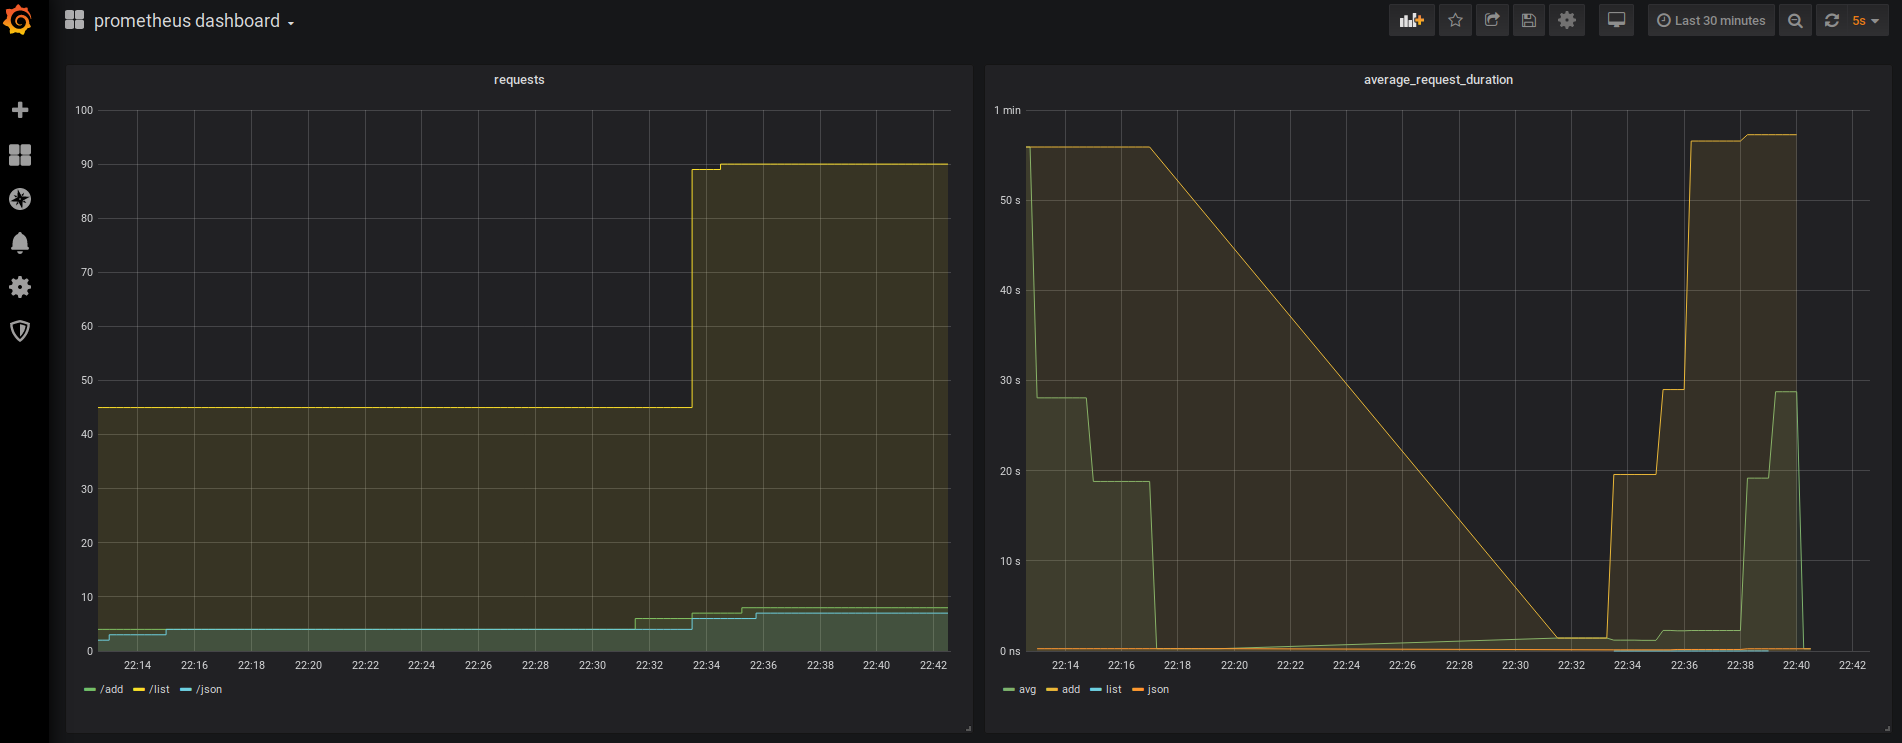
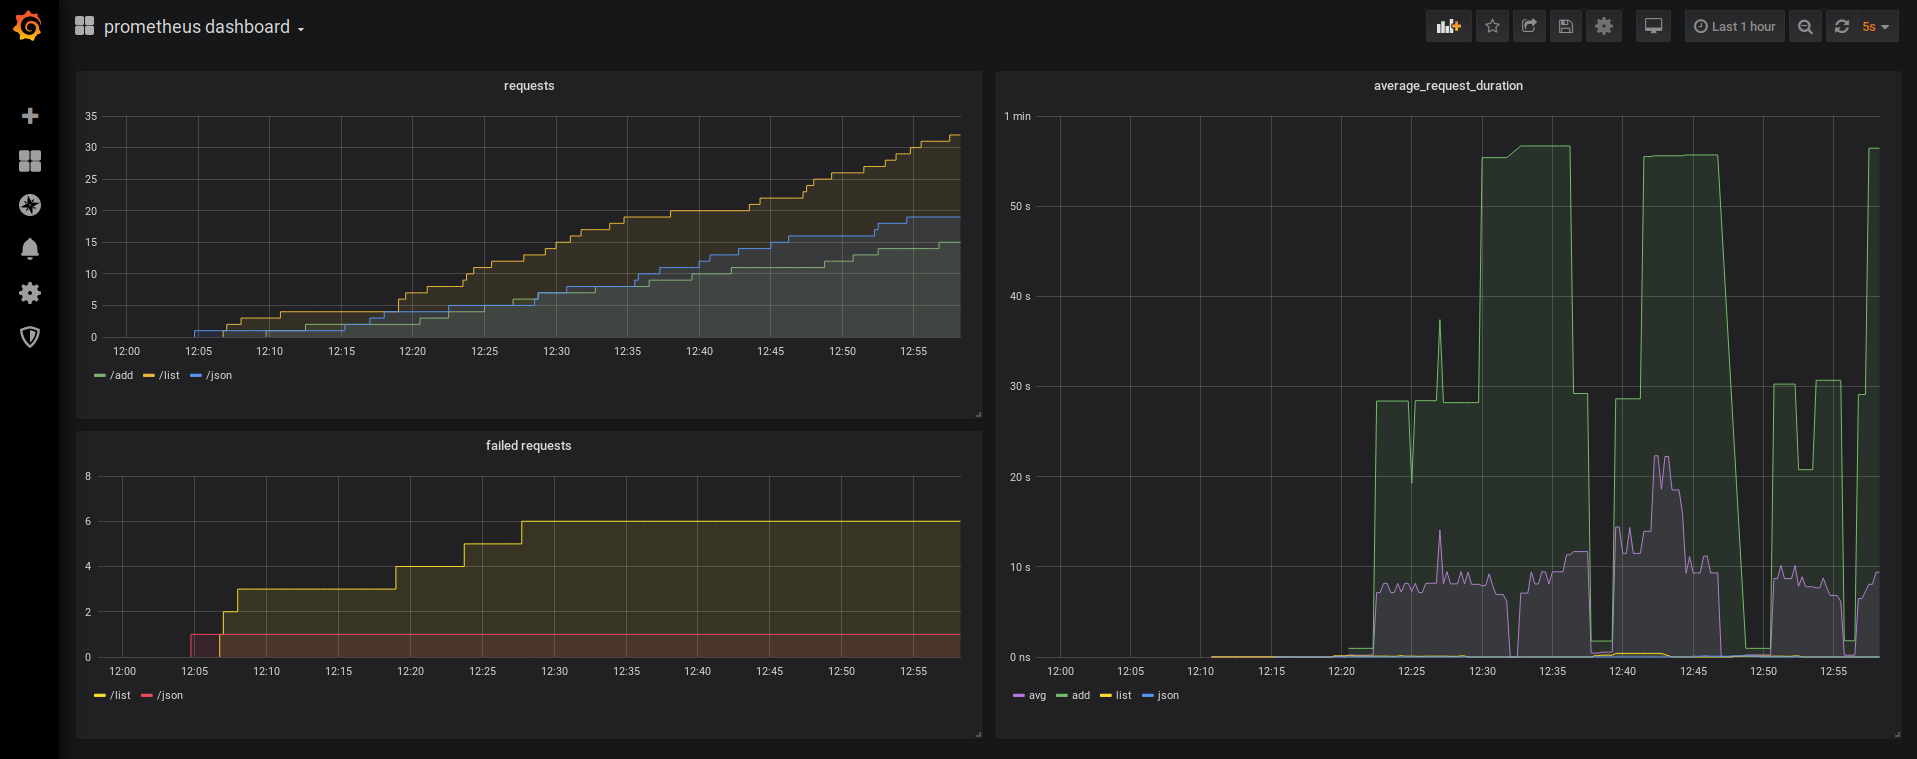
updated readme. updated dashboard with failed requests.

diff --git a/README.md b/README.md
@@ -321,11 +321,11 @@ Running ['curl', '-s', '-X', 'POST', 'http://127.0.0.1:5000/add/spark', '-d', 'h
 
 The following dashboard and panels are provisioned through `terraform` by passing `grafana-dashboard-template1.json` dashboard template mentioned above. 
 ![dashboards](static/grafana.png)
-The image does not do justice to visualising spikes in request latency.😇
 
 I have composed the queries used thanks to the [Prometheus official documentation on Histograms](https://prometheus.io/docs/practices/histograms/). 
 
-The image on the left shows the count for each request endpoint (add|list|json), whereas  on the right we see the average request duration (latency) for each endpoint (add|list|json).
+The panel on the top left shows the count for each request endpoint *(add|list|json)* regardless of the *http_status* code, whereas on the bottom left we can see the count of failed requests.
+On the right we see the average request duration (latency) for each endpoint *(add|list|json)*.
 <details><summary>request_count queries</summary>
 
 ```
@@ -335,6 +335,17 @@ sum(request_count_total{endpoint=~"/json/.+"})
 ```
 
 </details>
+
+<details><summary>failed request_count queries</summary>
+
+```
+sum(request_count_total{endpoint=~"/add/.+", http_status=~"400|404|500"})
+sum(request_count_total{endpoint=~"/list/.+", http_status=~"400|404|500"})
+sum(request_count_total{endpoint=~"/json/.+", http_status=~"400|404|500"})
+```
+
+</details>
+
 <details><summary>request_latency queries</summary>
 
 ```
